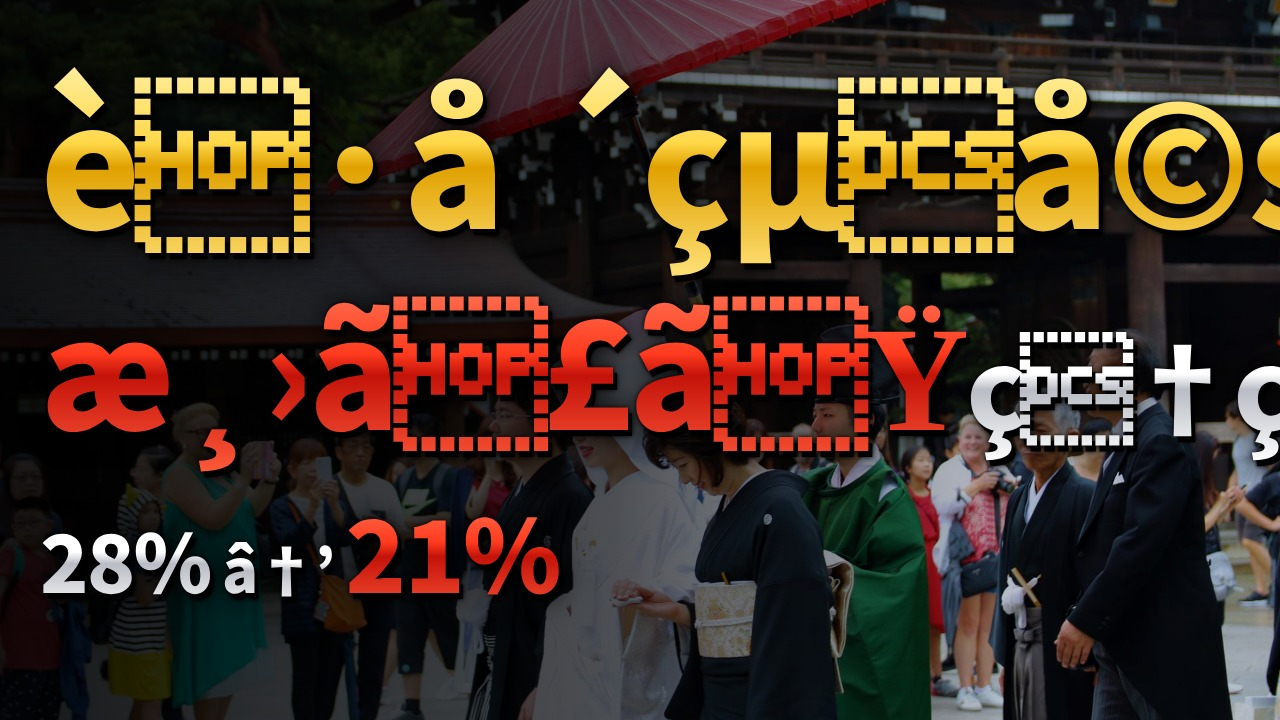
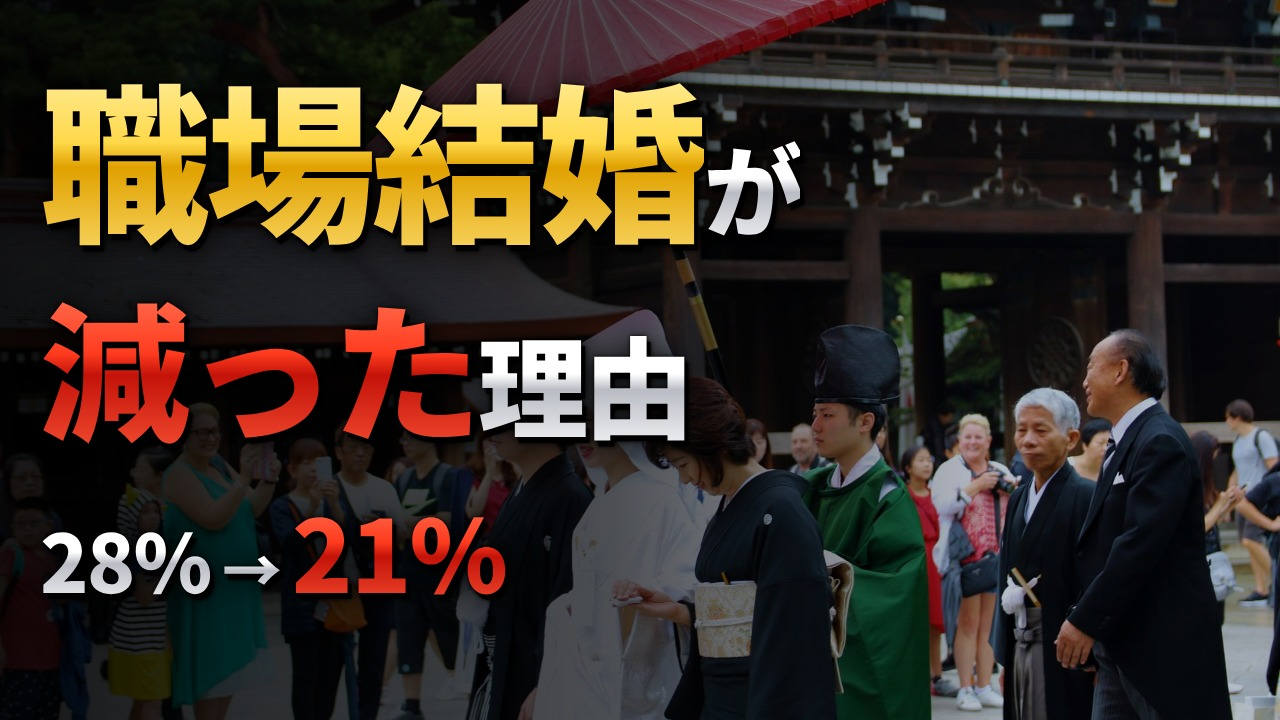
06 サムネ文字化け修正
Claude-Session: https://claude.ai/code/session_01F9DXnyMM1rdVPBt1VXeibd

Changed region(s): [[0.0312, 0.0917, 1.0, 0.6722], [0.1562, 0.7028, 0.4375, 0.8556], [0.0312, 0.7333, 0.0938, 0.7944]]

diff --git a/sekai/episodes/06_shokuba/thumb/t.html b/sekai/episodes/06_shokuba/thumb/t.html
@@ -1,4 +1,4 @@
-<html><body style="margin:0;width:1280px;height:720px;overflow:hidden;background:#000;font-family:'Noto Sans CJK JP';font-weight:900">
+<html><head><meta charset="utf-8"></head><body style="margin:0;width:1280px;height:720px;overflow:hidden;background:#000;font-family:'Noto Sans CJK JP';font-weight:900">
 <div style="position:absolute;inset:0;background:url(../img/shrine_wedding.jpg) 60% 45%/cover;filter:brightness(.85) contrast(1.08)"></div>
 <div style="position:absolute;inset:0;background:linear-gradient(90deg,rgba(0,0,0,.88) 0%,rgba(0,0,0,.6) 48%,rgba(0,0,0,.05) 78%)"></div>
 <style>.l{position:absolute;left:40px;white-space:nowrap;line-height:1;letter-spacing:-4px}
